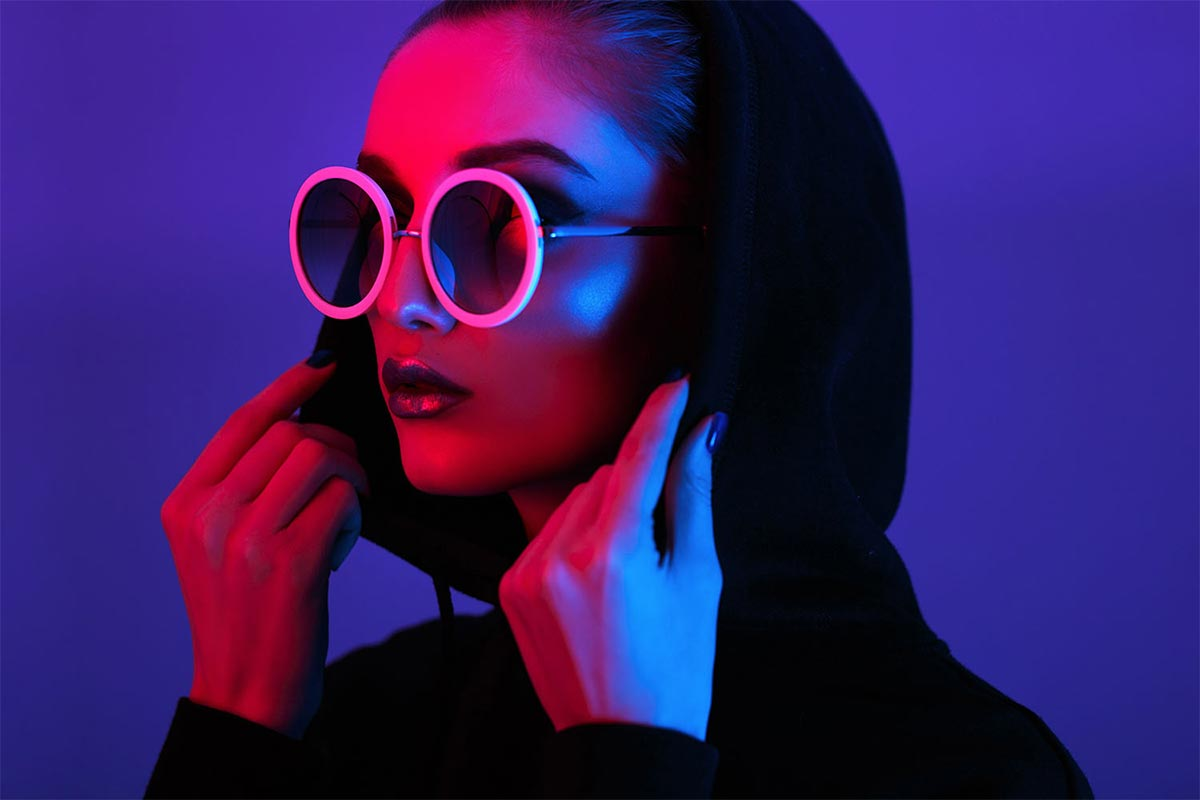
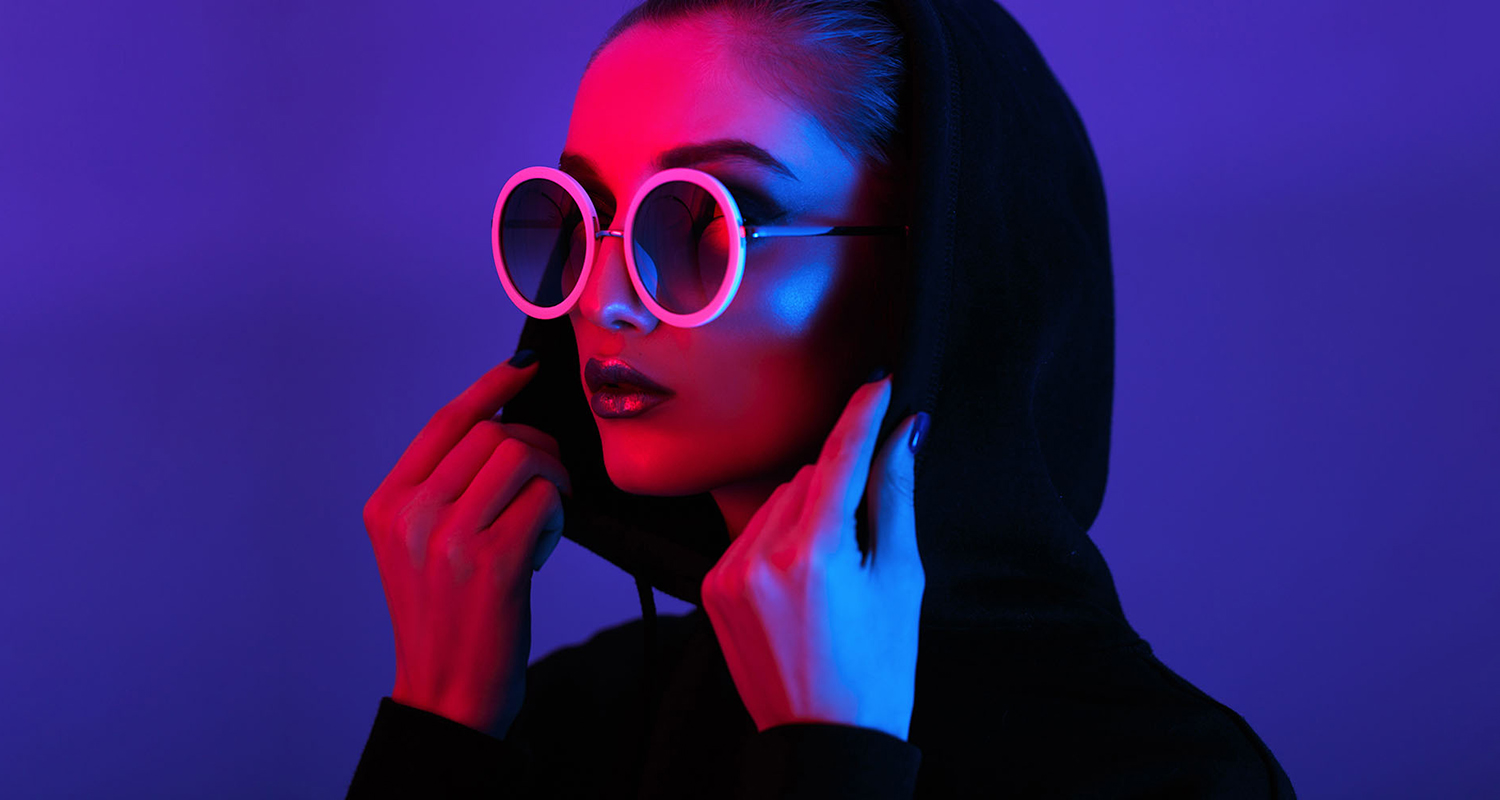
Fix slide show media query

diff --git a/scss/_banner.scss b/scss/_banner.scss
@@ -1,86 +1,73 @@
-.banner-img {
-    img{
-        max-width: 100%;
-        height: auto;
+.slideshow-container {
+    position: relative;
+    overflow: hidden;
+    height: 400px;
+    text-align: center;
+    overflow: hidden;
+
+    @include mq($phoneLandscapeSmall){
+        order: 2;
+    }
+    @include mq($desktopMedium){
+        height: 500px;
+    }
+    @include mq($desktopLarge){
+        height: 800px;
+        width: 100%;
+        margin: 0;
+    }
+    
+    .mySlides {
+        height: 100%;
+    
+        img{
+            display: block;
+            max-width: none;
+            height: 100%;
+            position: relative; 
+            left: 25%;
+            margin-left: -50%; 
+        }
+
+        @include mq($tabletLandscape){
+            img {
+                left: 0%;
+                margin-left: 0%;
+            }
+        }
+
+        @include mq($desktopMedium) {
+            img {
+                // height: 500px;
+            }
+        }
+
+        @include mq($desktopLarge) {
+            img {
+                height: 100%;
+                // width: 100%;
+                left: -15%;
+                // margin-left: -50%; 
+            }
+        }
     }
 }
 
-// .banner{
-//     position: relative;
 
-//     .banner-img{
-//         @include bg-img;
-//         height: 400px;
-//         width: 100%;
-//         background-position: 35% 50%;
-//     }
+.banner {
+    position: relative;
+    @include mq($phoneLandscapeSmall){
+        display: grid;
+        grid-template-columns: 1fr 1fr;
 
-//     .banner-img1 {
-//         background-image: url(../images/home/m-home-banner-girl.jpg);
-//         // background-position: 35% 50%;
-//     }
+    }
 
-//     .banner-img2 {
-//         background-image: url(../images/home/m-home-banner-guy.jpg);
-//         // background-position: 35% 50%;
-//     }
+    @include mq($desktopLarge){
+        grid-template-columns: 1fr;
+        grid-template-rows: 1fr;
+    }
 
-//     @include mq($phoneLandscape){
-//         display: grid;
-//         grid-template-columns: 1fr 1fr;
-//         .banner-img1 {
-//             order: 2;
-//         }
-//         .banner-img2 {
-//             order: 2;
-//         }
-//     }
-
-//     @include mq($desktopMedium){
-//         height: 500px;
-//         .banner-img1 {
-//             height: 500px;
-//         }
-//         .banner-img2 {
-//             height: 500px;
-//         }
-//     }
-    
-//     @include mq($desktopLarge){
-//         grid-template-columns: 1fr;
-//         grid-template-rows: 1fr;
-//         .banner-img1 {
-//             background-image: url(../images/home/home-banner-girl.jpg);
-//             height: 60vh;
-//         }
-//         .banner-img2 {
-//             background-image: url(../images/home/home-banner-guy.jpg);
-//             height: 60vh;
-//         }
-//     }
-    
-// }
-
-// .banner-img {
-//     width: 100%;
-//     height: 400px;
-//     background-image: url(../images/home/m-home-banner-girl.jpg);
-//     @include bg-img;
-//     background-position: 35% 50%;
-//     @include mq($phoneLandscape){
-//         order: 2;
-//     }
-//     @include mq($tabletLandscape){
-//         height:400px;
-//     }
-//     @include mq($desktopMedium){
-//         height:500px;
-//     }
-//     @include mq($desktopLarge){
-//         background-image: url(../images/home/home-banner-girl.jpg);
-//         height: 60vh;
-//     }
-// }
+}
 
 .banner-title{
     h1{
@@ -98,6 +85,7 @@
 
 .banner-wrapper{
     background-color: #02D9FE;
+
     .banner-text {
         padding: $padding 40px;
         h1{
@@ -108,7 +96,7 @@
             font-family: $century;
             font-size: 0.9em;
         }
-        @include mq($phoneLandscape){
+        @include mq($phoneLandscapeSmall){
             line-height: 1.3em;
             align-self: end;
             justify-self: center;
@@ -116,7 +104,7 @@
             
         }
         @include mq($desktopLarge){
-            width:100%;
+            width: 100%;
             text-align: center;
         }
          
@@ -134,7 +122,7 @@
         font-size: 0.9em;
         
         }
-        @include mq($phoneLandscape){
+        @include mq($phoneLandscapeSmall){
             width: 60%;
             height: 60px;
             justify-self: center;
@@ -142,26 +130,28 @@
             justify-self: center;
         }
     }
-    @include mq($phoneLandscape){
-        display:grid;
+    
+    @include mq($phoneLandscapeSmall){
+        display: grid;
+        // height: 400px;
 
     }
     @include mq($desktopLarge){
         position: absolute;
-        top: 10vh;
-         left: 30vw;
-         height: 40vh;
-         width: 20vw;
+        top: 5vw;
+        left: 20vw;
+        height: 16vw;
+        width: 16vw;
     }
 }
 
-//products.html Styling
+// products.html Styling
 .p-banner{
     grid-template-columns: 60% 41%;;
 .product-bn-img{
     background-image: url(../images/product/product-banner.jpg);
     order:1;
-    @include mq($phoneLandscape){
+    @include mq($phoneLandscapeSmall){
         height: 40vh;
     } 
     @include mq($tabletLandscape){
@@ -180,7 +170,7 @@
         span {
             color: $brand-ppl-color;
         }
-        @include mq($phoneLandscape){
+        @include mq($phoneLandscapeSmall){
             order:2;
             display: grid;
         .product-bn-text{
@@ -195,7 +185,7 @@
 
     }  
     
-    @include mq($phoneLandscape){
+    @include mq($phoneLandscapeSmall){
         height: 40vh;
     } 
     @include mq($tabletLandscape){
@@ -206,7 +196,7 @@
     }
 
 }
-  //About.html banner styling
+  // About.html banner styling
    .about-banner{
     .about-bn-img{
         background-image: url(../images/about/m-about-banner-women.jpg);

diff --git a/index.html b/index.html
@@ -56,14 +56,33 @@
                 </div>               
     </header>
          <div class="banner">
-                    <div class="banner-img">
-                        <div class="banner-img1">
-                            <img src="images/home/home-banner-girl.jpg" alt="A female model with sunglasses"
-                            srcset="images/home/home-banner-girl.jpg 1921w,
-                                    images/home/m-home-banner-girl.jpg 320w"
-                            sizes="(max-width: 1260px) calc(100vw - 60px),1200px">
+                    <div class="slideshow-container">
+                        <div class="mySlides fade">
+                            <picture>
+                                <source srcset="images/home/m-home-banner-girl.jpg" media="(max-width:1919px)">
+                                <img src="images/home/home-banner-girl.jpg" alt="A female model wearing sunglasses">
+                            </picture>
                         </div>
-                    </div><!--end of banner-img-->
+                        <div class="mySlides fade">
+                            <picture>
+                                <source srcset="images/home/m-home-banner-guy.jpg" media="(max-width:1919px)">
+                                <img src="images/home/home-banner-guy.jpg" alt="A male model wearing sunglasses">
+                            </picture>
+                        </div>
+                        <!-- <div class="mySlides fade">
+                            <img srcset="images/home/m-home-banner-girl.jpg 1200w,
+                                images/home/home-banner-girl.jpg 3000w"
+                                src="images/home/m-home-banner-girl.jpg" 
+                                sizes="(max-width: 1920px) 100vw,
+                                        500px"
+                                alt="A female model wearing sunglasses">
+                        </div>
+                        <div class="mySlides fade">
+                            <img srcset="images/home/m-home-banner-guy.jpg 1200w,
+                                images/home/home-banner-guy.jpg 3000w" src="images/home/m-home-banner-guy.jpg"
+                                alt="A male model wearing sunglasses">
+                        </div> -->
+                    </div><!--end slideshow-container-->
                     <div class="banner-wrapper">
                     <div class="banner-text">
                             <h1>Favorite frames, New fits</h1>

diff --git a/scripts/script.js b/scripts/script.js
@@ -53,3 +53,21 @@ function topFunction() {
   });
 
  
+
+
+
+  // Index page slide show
+let slideIndex = 0;
+showSlides();
+
+function showSlides() {
+  let i;
+  let slides = document.getElementsByClassName("mySlides");
+  for (i = 0; i < slides.length; i++) {
+    slides[i].style.display = "none";
+  }
+  slideIndex++;
+  if (slideIndex > slides.length) { slideIndex = 1 }
+  slides[slideIndex - 1].style.display = "block";
+  setTimeout(showSlides, 10000); // Change image every 2 seconds
+}

diff --git a/scss/_variables.scss b/scss/_variables.scss
@@ -85,11 +85,12 @@ $six-col: colWidth(6);
 }
 
 // Media Query Breakpoints
-$desktopLarge:em(1921);
+$desktopLarge:em(1919);
 $desktopMedium: em(1250);
 $tabletLandscape: em(1024);
 $tabletPortrait: em(850);
 $phoneLandscape: em(670);
+$phoneLandscapeSmall: em(615);
 $phonePortrait: em(420);
 
 // Utility variables
